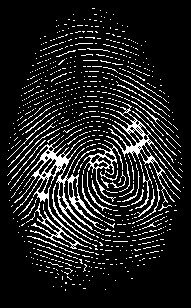
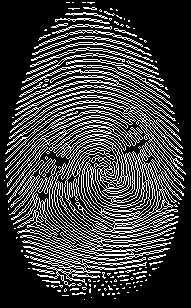
.

diff --git a/Combination/FingerPrint/code.py b/Combination/FingerPrint/code.py
@@ -10,5 +10,5 @@ n=len(image[0])
 for i in range(m):
     for j in range(n):
         image[i][j]=255-image[i][j]
-image=cv2.morphologyEx(image, cv2.MORPH_HITMISS, kernel)
+image=image-cv2.morphologyEx(image, cv2.MORPH_HITMISS, kernel)
 cv2.imwrite('fingerprint.png', image)
